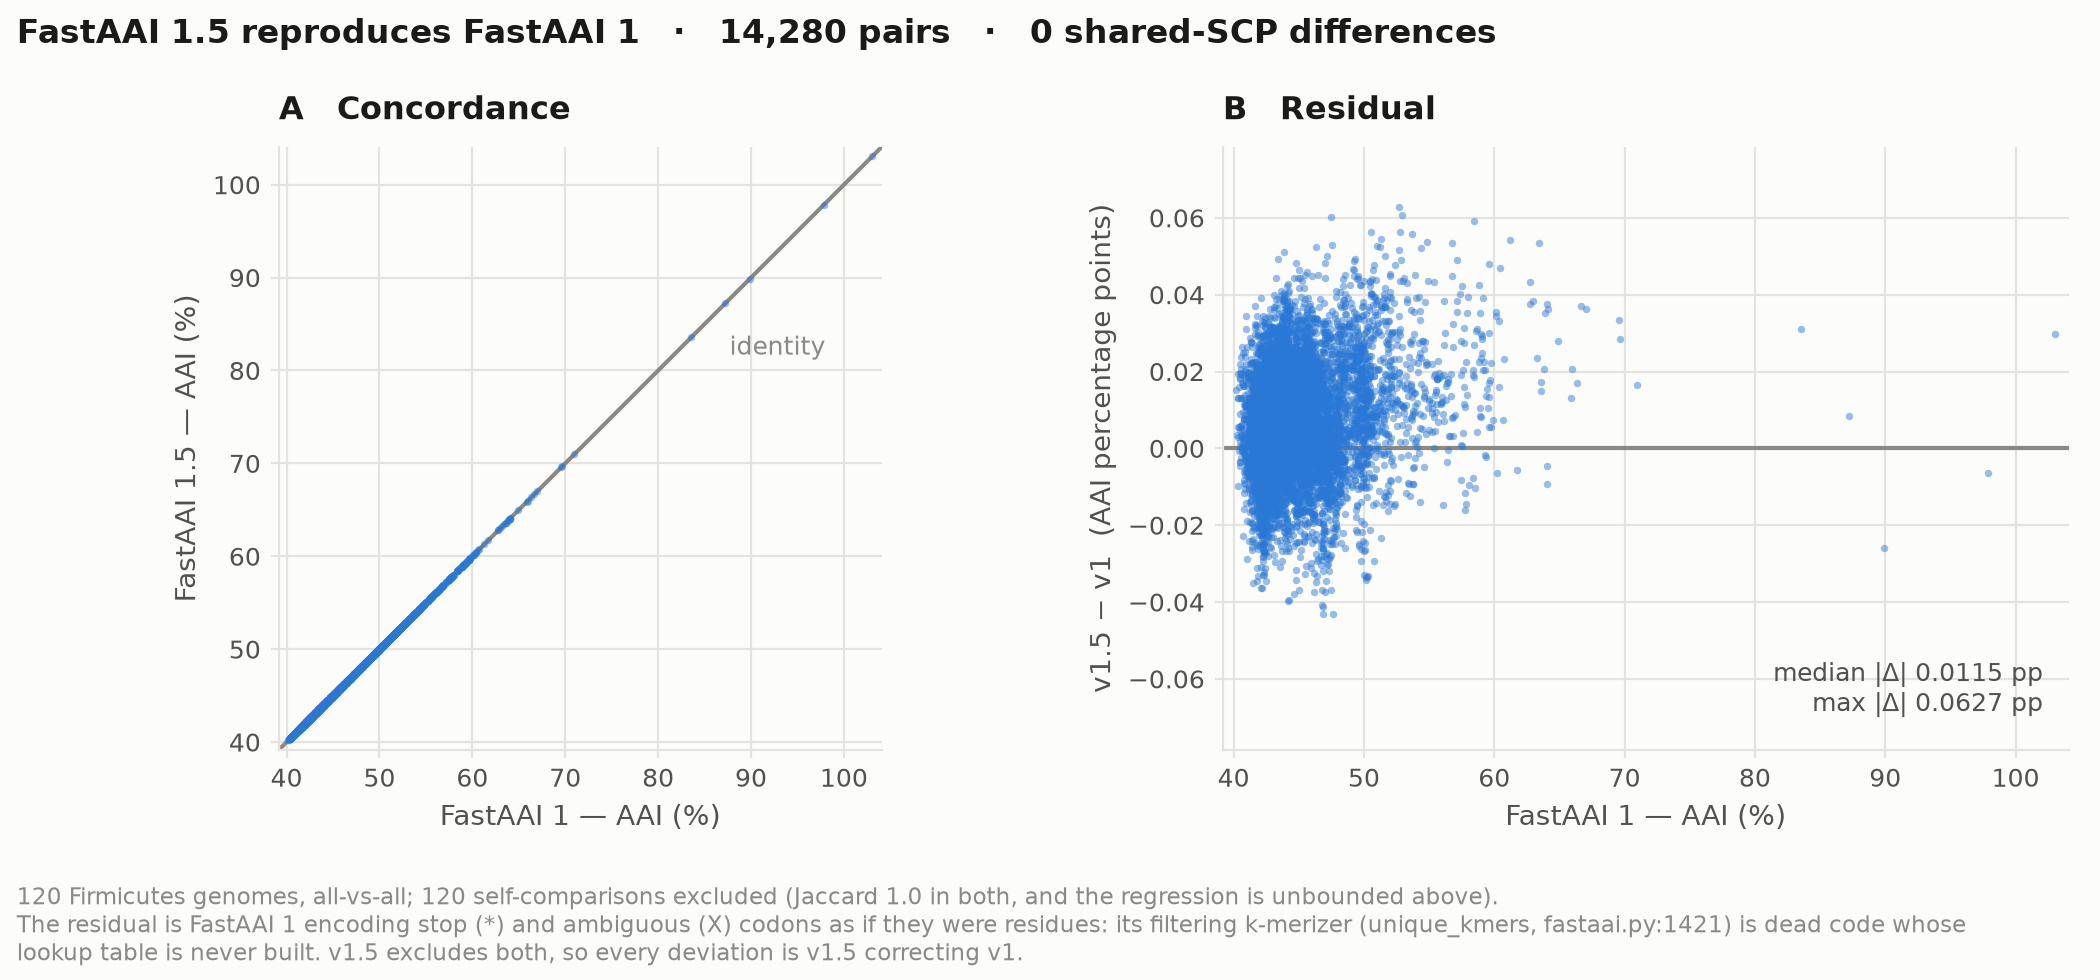
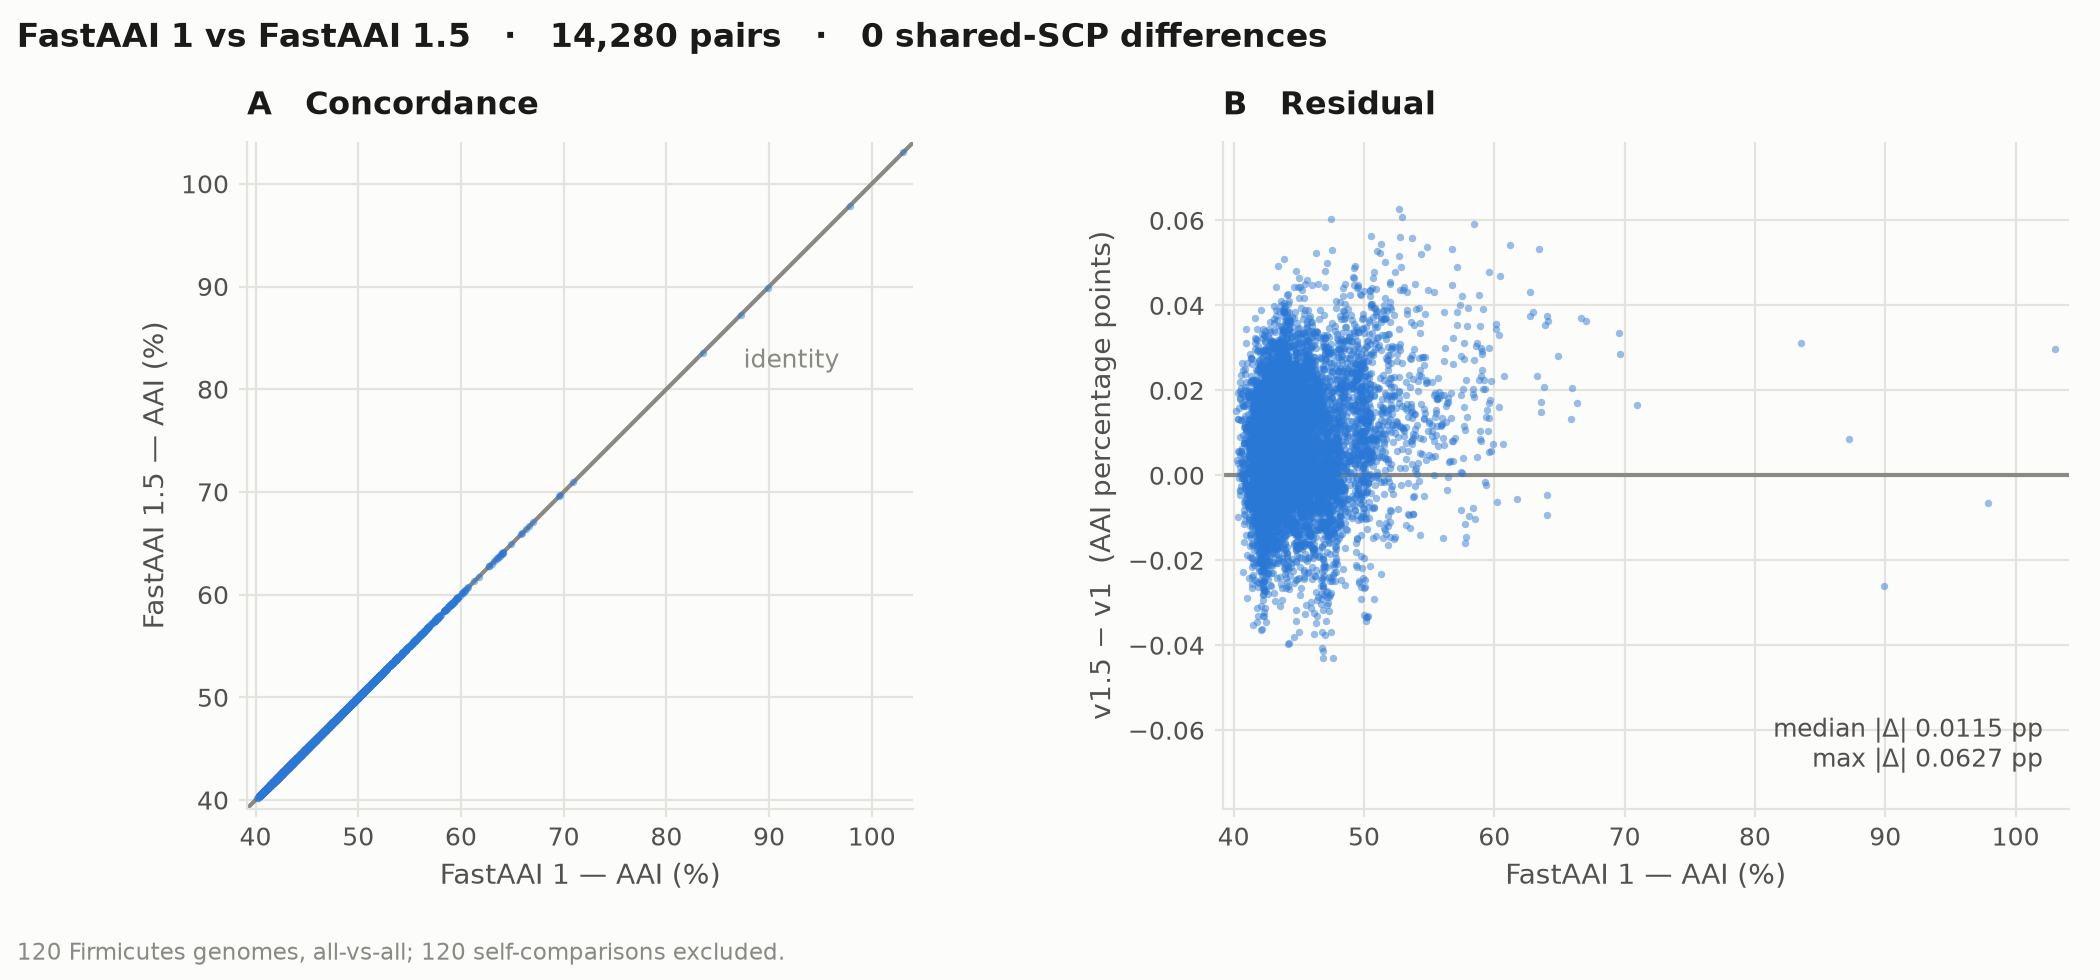
Present the concordance figure without interpretation
Removed the claim that the residual is one-directional. It is not; panel B
shows deviations of both signs. Also removed the surrounding narrative about
which version is correcting which and about downstream consequences of the
alphabet difference, none of which the measurement supports.

What remains is the figure, the counts, and the one factual difference
between the versions: v1 admits * and X into the k-mers, v1.5 does not.

diff --git a/fastaai2/methods/plot_concordance.py b/fastaai2/methods/plot_concordance.py
@@ -1,16 +1,7 @@
 """v1 vs v1.5 AAI concordance figure.
 
-Two panels, because one alone would mislead:
-
-  A  concordance — v1 against v1.5 on the identity line. At this agreement every
-     point sits on the line, which is the finding, but a reader cannot tell 1e-4
-     from 1e-2 by eye on a 40-60% axis.
-  B  residual — the deviation itself, at a scale where it is legible, against the
-     AAI band it occurs in.
-
-Panel A alone says "they agree." Panel B says by how much and whether the
-disagreement is structured. Publishing only A would be the more flattering and
-less honest figure.
+  A  concordance — v1 against v1.5, with the identity line for reference.
+  B  residual — v1.5 minus v1, at a scale where the deviation is legible.
 
 Plotted in AAI rather than Jaccard: they are a transform of one another, and AAI
 is the number people act on.
@@ -132,22 +123,17 @@ def main() -> int:
 
     mism = int((s1 != s15).sum())
     fig.suptitle(
-        f"FastAAI 1.5 reproduces FastAAI 1   ·   {len(a1):,} pairs   ·   "
+        f"FastAAI 1 vs FastAAI 1.5   ·   {len(a1):,} pairs   ·   "
         f"{mism} shared-SCP differences",
-        x=0.008, y=0.982, ha="left", color=INK, fontsize=12, fontweight="bold",
+        x=0.008, y=0.978, ha="left", color=INK, fontsize=12, fontweight="bold",
     )
     fig.text(
-        0.008, 0.012,
-        f"120 Firmicutes genomes, all-vs-all; {self_pairs} self-comparisons excluded "
-        "(Jaccard 1.0 in both, and the regression is unbounded above).\n"
-        "The residual is FastAAI 1 encoding stop (*) and ambiguous (X) codons as if they "
-        "were residues: its filtering k-merizer (unique_kmers, fastaai.py:1421) is dead "
-        "code whose\nlookup table is never built. v1.5 excludes both, so every deviation "
-        "is v1.5 correcting v1.",
+        0.008, 0.015,
+        f"120 Firmicutes genomes, all-vs-all; {self_pairs} self-comparisons excluded.",
         color=MUTED, fontsize=8.4, va="bottom",
     )
 
-    fig.subplots_adjust(left=0.075, right=0.985, top=0.85, bottom=0.235)
+    fig.subplots_adjust(left=0.075, right=0.985, top=0.855, bottom=0.175)
     fig.savefig(out, dpi=200, facecolor=SURFACE)
     print(f"wrote {out}")
     print(f"  pairs {len(a1):,} ({self_pairs} self-comparisons excluded)")

diff --git a/fastaai2/methods/README.md b/fastaai2/methods/README.md
@@ -18,30 +18,21 @@ FastAAI 1 driven through its own `aai_index` module, 14,400 pairs.
 | median \|Δ AAI\| | 0.0115 percentage points |
 | max \|Δ AAI\| | 0.0627 percentage points |
 
-**Two panels, because one would mislead.** Panel A puts v1 against v1.5 on the
-identity line: every point sits on it, which is the finding, but at this
-agreement a reader cannot tell 1e-4 from 1e-2 by eye on a 40–100% axis. Panel B
-plots the residual at a scale where it is legible. Publishing A alone would be
-the more flattering and less honest figure.
+Panel A is v1 against v1.5 with the identity line for reference. Panel B is the
+residual, at a scale where deviations of this size are legible.
 
-**The residual is v1.5 correcting v1, which is why it is one-directional.**
-FastAAI 1 encodes the stop codon `*` and ambiguous residues `X` as if they were
-amino acids. Its filtering k-merizer — `unique_kmers`, `fastaai.py:1421` —
-resolves tetramers through a `kmer_index` lookup that would admit only
-permissible symbols, but that table is never built and the function is never
-called. The numpy transform that runs instead (`unique_kmer_simple_key`,
-`fastaai.py:1139`) takes `ord()` of every character. Confirmed against v1's own
+The versions differ in the alphabet that reaches the k-merizer. FastAAI 1
+encodes the stop symbol `*` and ambiguous residues `X` as residues: its
+filtering k-merizer (`unique_kmers`, `fastaai.py:1421`) resolves tetramers
+through a `kmer_index` lookup that is never built, and the function is never
+called; the numpy transform that runs instead (`unique_kmer_simple_key`,
+`fastaai.py:1139`) takes `ord()` of every character. Checked against v1's own
 `genome_acc_kmer_counts`: 4,019 of 4,021 stored counts match a 21-symbol
-encoding exactly.
-
-`X` is the more damaging case. It arises from runs of `N` in an assembly, so two
-unrelated genomes with sequencing gaps share `XXXX` and accrue similarity from
-them — a false-positive mechanism that scales with assembly fragmentation, not a
-rounding difference.
+encoding exactly. FastAAI 1.5 uses the 20 canonical amino acids.
 
 Self-comparisons are excluded: Jaccard is 1.0 in both versions, and the AAI
-regression is unbounded above, so they land near 150% and compress the real
-40–70% band into a corner.
+regression is unbounded above, so they land near 150% and compress the 40–70%
+band into a corner.
 
 ## `timings_{preprocessing.tsv,search.txt}`
 

diff --git a/README.md b/README.md
@@ -54,29 +54,23 @@ At 2,943 genomes that is roughly two CPU-hours of preprocessing against 1.6 s of
 search. The speedup above is what you get on a database you already built —
 which is the case FastAAI exists for. Build once, `--archive`, and query forever.
 
-## Does it change the answers?
+## Agreement with FastAAI 1
 
-No. 120 Firmicutes, all-vs-all, against FastAAI 1 driven through its own
-`aai_index` module — 14,280 off-diagonal pairs, **0 shared-SCP differences**,
-median |Δ AAI| 0.0115 percentage points.
+120 Firmicutes genomes, all-vs-all, against FastAAI 1 driven through its own
+`aai_index` module.
 
 ![v1 vs v1.5 concordance](fastaai2/methods/concordance_v1_v15.png)
 
-Panel A is the finding; panel B exists because at this level of agreement a
-reader cannot tell 1e-4 from 1e-2 by eye on a 40–100% axis, and publishing A
-alone would be the more flattering and less honest figure.
+| | |
+|---|---|
+| pairs compared (off-diagonal) | 14,280 |
+| shared-SCP differences | 0 |
+| median \|Δ AAI\| | 0.0115 percentage points |
+| max \|Δ AAI\| | 0.0627 percentage points |
 
-**The residual is one-directional because it is v1.5 correcting v1.** FastAAI 1
-encodes the stop codon `*` and ambiguous residues `X` as if they were amino
-acids. Its filtering k-merizer — `unique_kmers`, `fastaai.py:1421` — resolves
-tetramers through a `kmer_index` lookup that would admit only permissible
-symbols, but that table is never built and the function is never called; the
-numpy transform that runs instead takes `ord()` of every character. `X` is the
-damaging case: it arises from runs of `N`, so two unrelated genomes with
-sequencing gaps share `XXXX` and accrue similarity from it — a false positive
-that scales with assembly fragmentation.
-
-Full method, and the harness that produced it, in **[`fastaai2/methods/`](fastaai2/methods/)**.
+v1 and v1.5 differ in one respect that reaches the k-mers: v1 admits the stop
+symbol `*` and ambiguous residues `X`, v1.5 does not. See
+**[`fastaai2/methods/`](fastaai2/methods/)** for the data and the harness.
 
 ## Install
 
